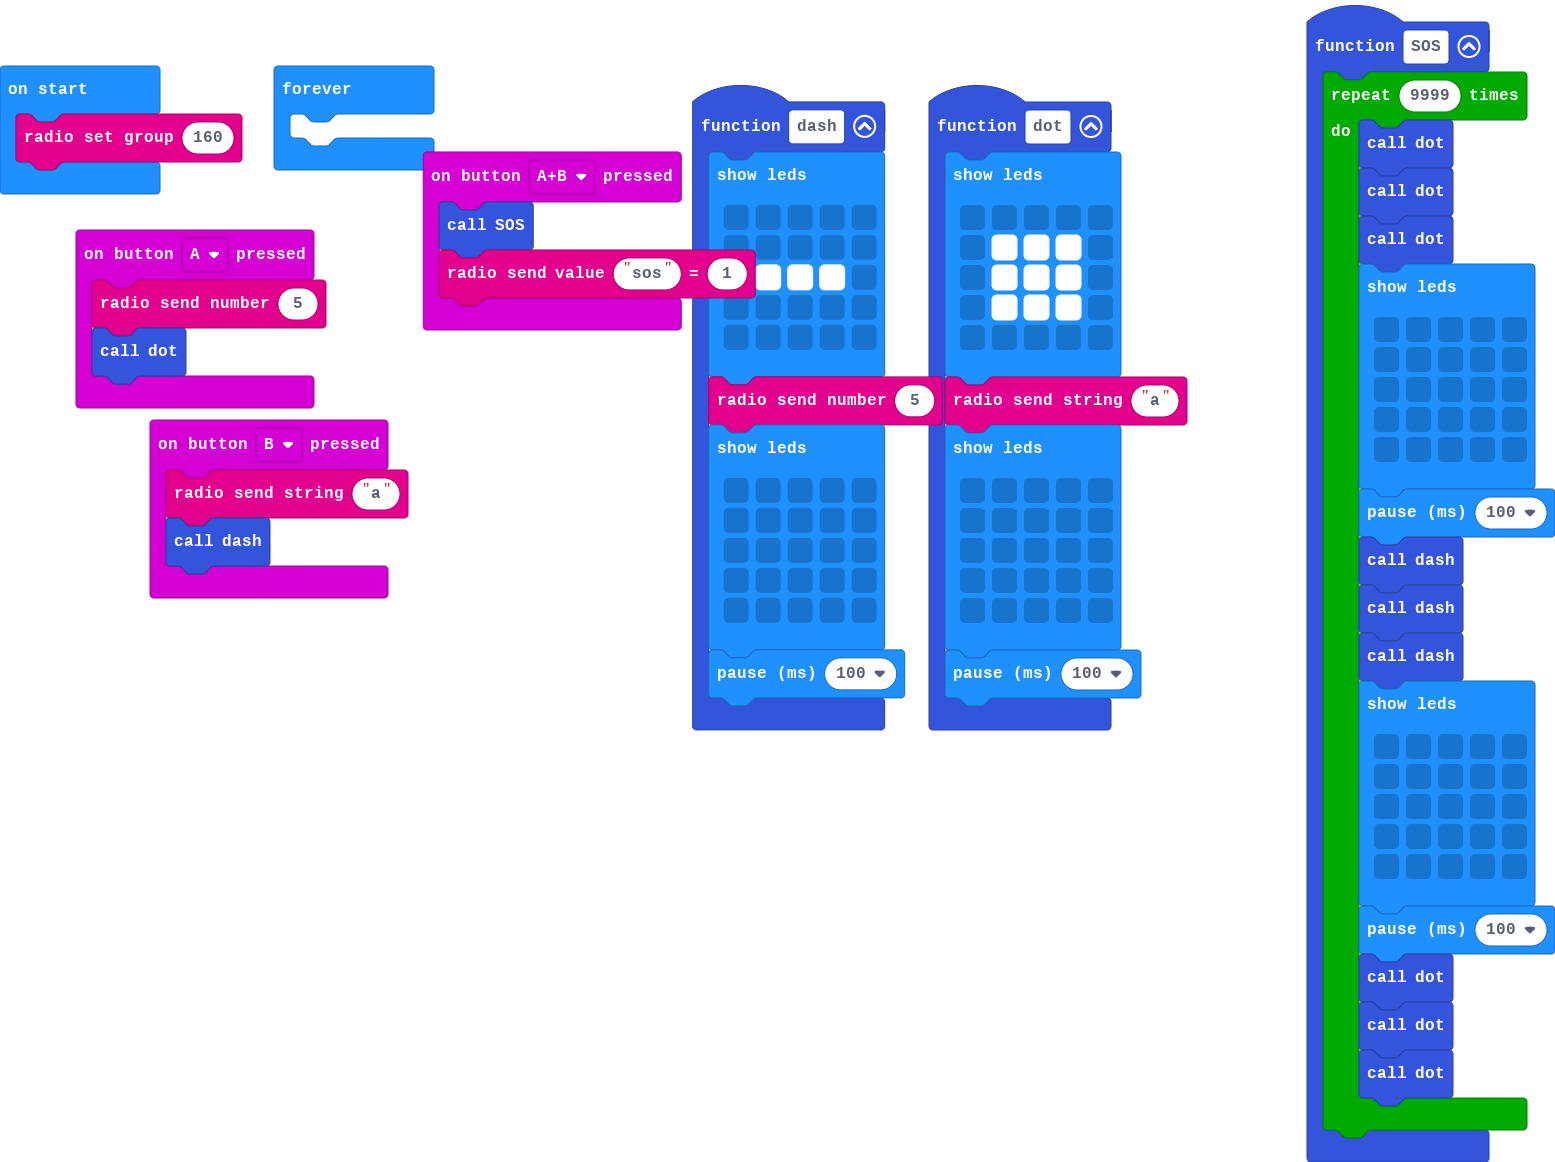
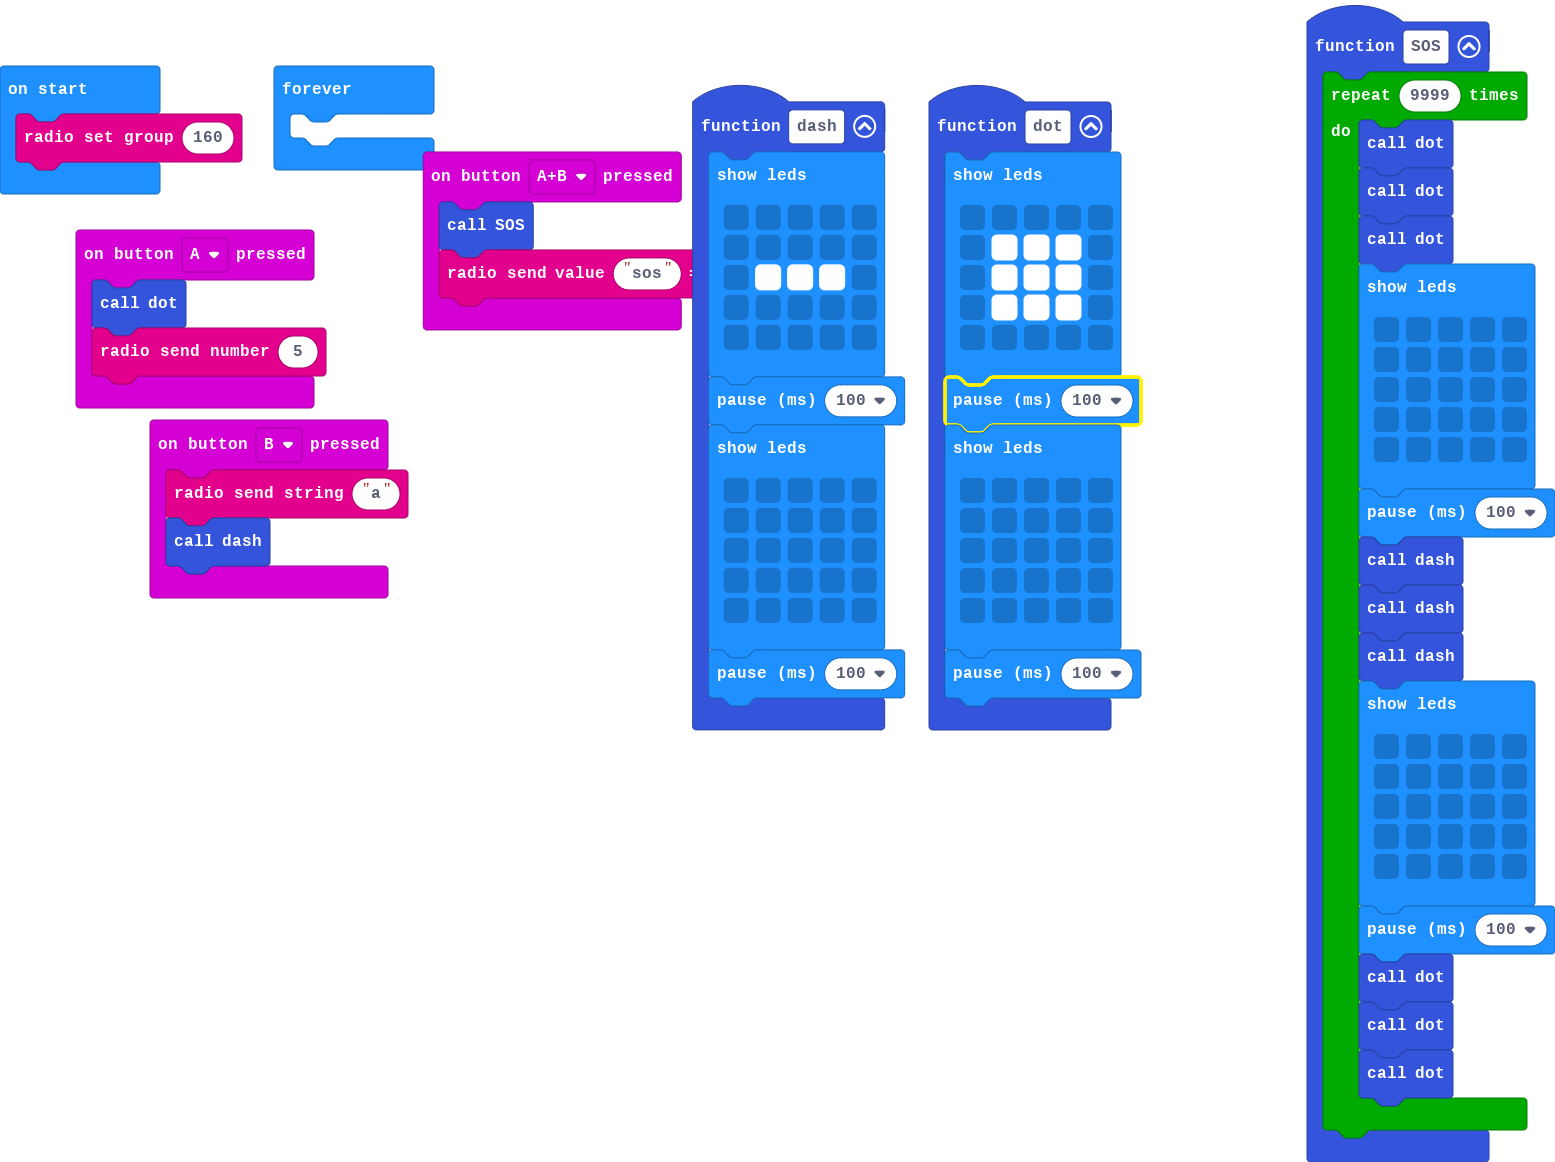
fixed radio bug,

Changed region(s): [[0.4322, 0.3098, 0.7717, 0.3718], [0.0309, 0.2169, 0.2161, 0.3408], [0.4322, 0.2169, 0.4939, 0.2788]]

diff --git a/main.ts b/main.ts
@@ -1,6 +1,6 @@
 input.onButtonPressed(Button.A, function () {
-    radio.sendNumber(5)
     dot()
+    radio.sendNumber(5)
 })
 function dash () {
     basic.showLeds(`
@@ -10,7 +10,7 @@ function dash () {
         . . . . .
         . . . . .
         `)
-    radio.sendNumber(5)
+    basic.pause(100)
     basic.showLeds(`
         . . . . .
         . . . . .
@@ -28,7 +28,7 @@ function dot () {
         . # # # .
         . . . . .
         `)
-    radio.sendString("a")
+    basic.pause(100)
     basic.showLeds(`
         . . . . .
         . . . . .
